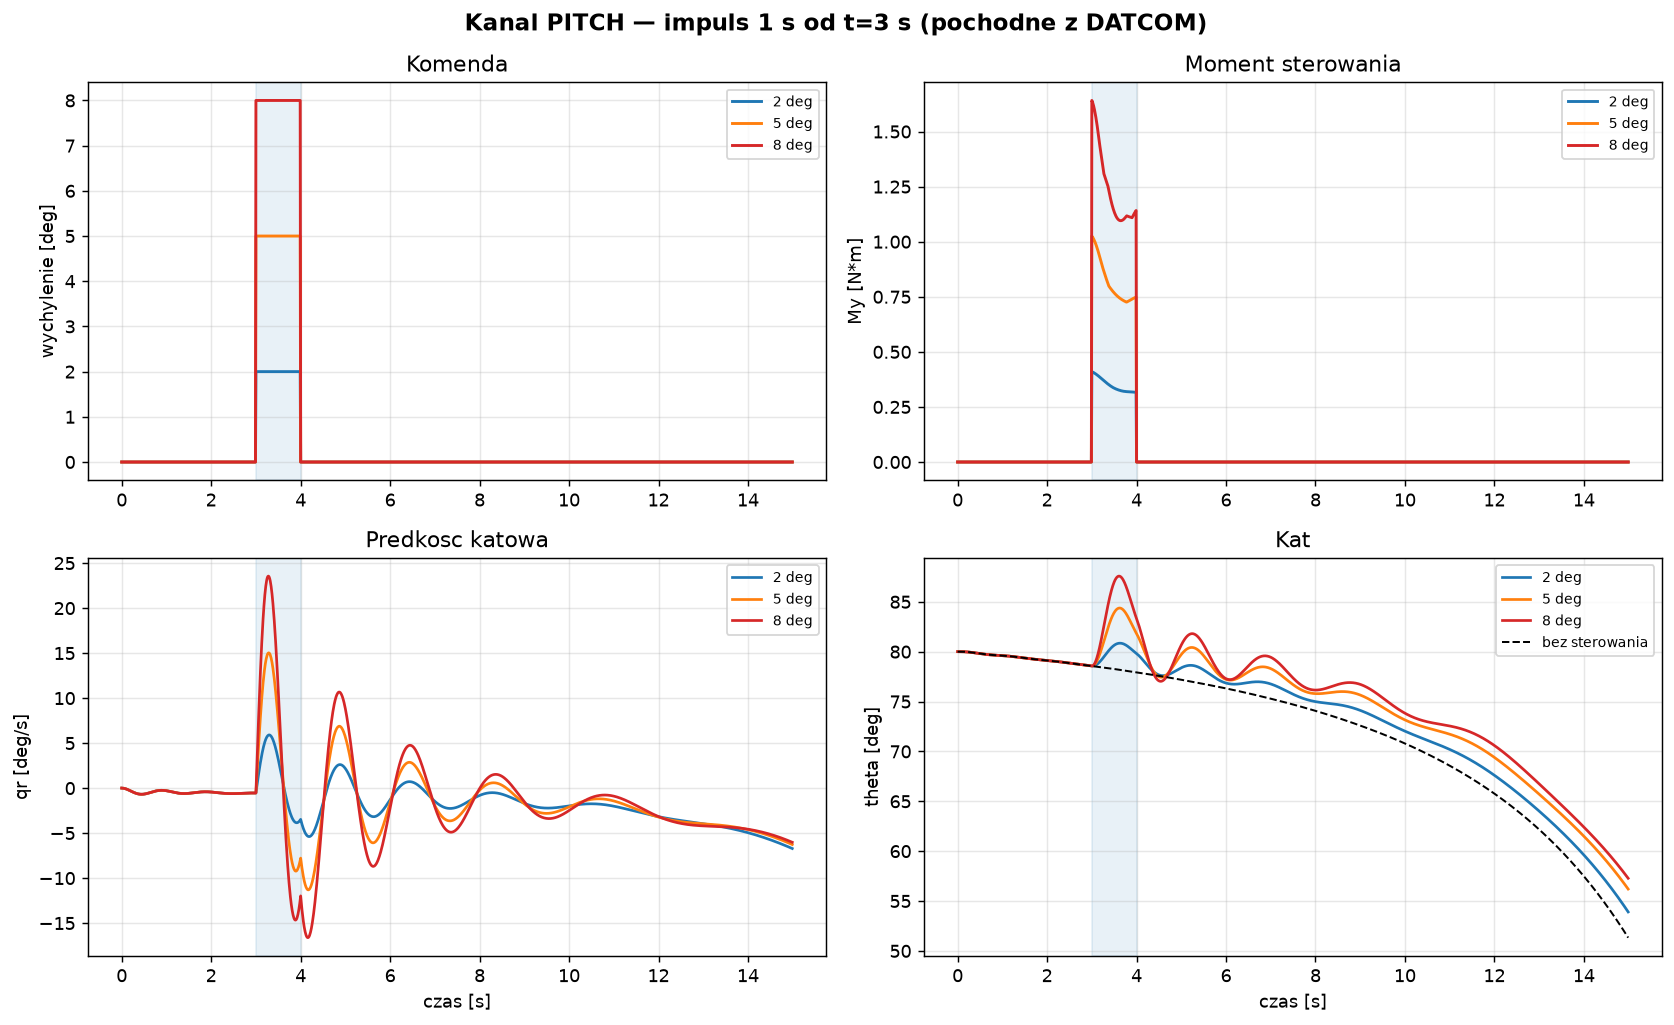
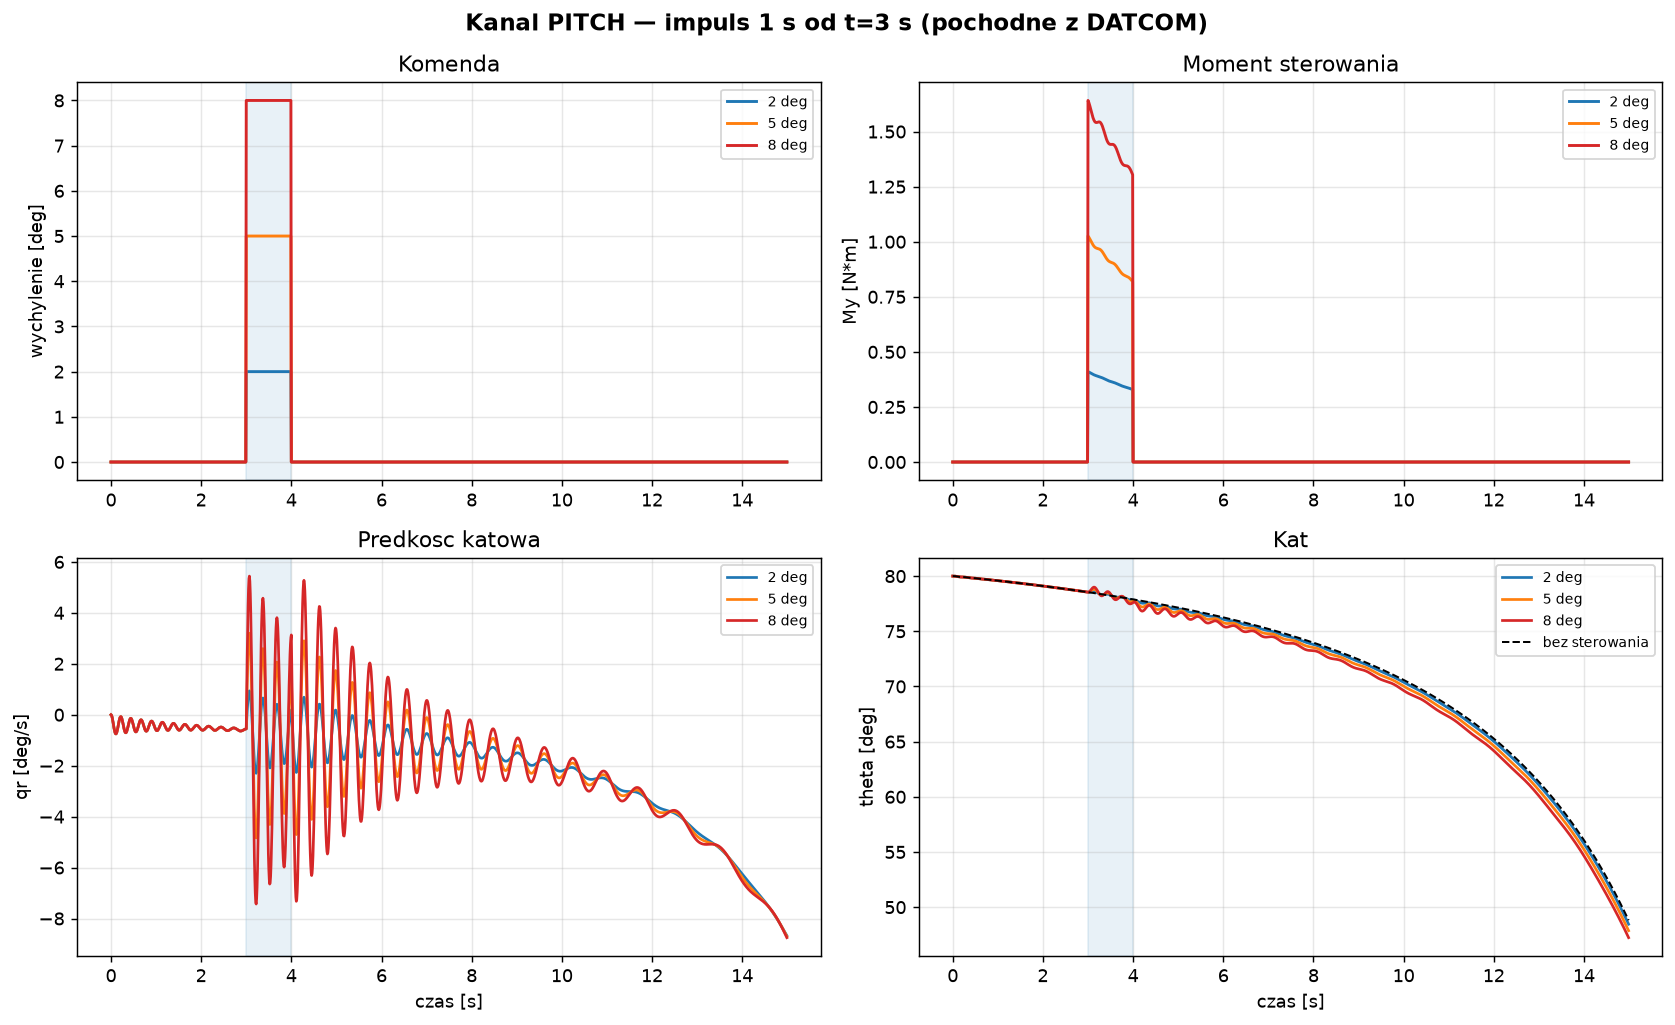
control: stabilize channel test after LREF fix
- ControlDerivTable.interp() clips alpha/Mach to table bounds instead of
  extrapolating; extrapolation fed a divergence loop in the yaw channel
- demo_model prefers real DATCOM aero (same LREF normalization as the
  control derivatives) and caches it; fallback table stiffness raised to
  the post-fix Cm_alpha = -54/rad
- plot_control_channels reports angular rate relative to the control-off
  run, so the pitch gravity-turn background no longer masks the response

Claude-Session: https://claude.ai/code/session_01QNsbYokreJmmKpoSq2s61r

diff --git a/FlightSim/control/demo_model.py b/FlightSim/control/demo_model.py
@@ -30,6 +30,45 @@ ALPHA_GRID = np.deg2rad(np.array([-20., -10., 0., 10., 20.]))
 MACH_GRID = np.array([0.1, 0.5, 1.0, 2.0, 3.0])
 
 
+# Sztywnosc statyczna realnej rakiety 70mm po poprawce LREF (patrz
+# check_moment_reference.py). Uzywana tylko w awaryjnej tablicy zastepczej,
+# zeby NIE byla o rzad wielkosci mieksza niz airframe, do ktorego liczymy
+# pochodne sterowania.
+CM_ALPHA_REAL = -54.0      # [1/rad]
+
+
+_REAL_AERO_CACHE: list = []      # [] = jeszcze nie probowano, [x] = wynik
+
+
+def real_aero_or_none():
+    """
+    Prawdziwa aero 70mm z DATCOM, jesli jest dostepna i aktualna.
+
+    Dlaczego to wazne: pochodne sterowania pochodza z DATCOM, wiec sztywnosc
+    statyczna MUSI pochodzic z tego samego zrodla i tej samej normalizacji.
+    Recznie wpisana tablica Cm nie skaluje sie razem z poprawka LREF — po
+    zmianie LREF sterowanie uroslo ~18x, a zastepcza sztywnosc nie, przez co
+    canardy "przewracaly" model (kanal yaw wpadal w tumbling).
+
+    Wynik jest keszowany: build_demo_model wolamy raz na przebieg, a testy
+    macierzowe robia kilkanascie przebiegow — bez cache kazdy z nich probowal
+    (i logowal) pelne uruchomienie DATCOM.
+    """
+    if _REAL_AERO_CACHE:
+        return _REAL_AERO_CACHE[0]
+    try:
+        from aero import get_aero_model
+        out = get_aero_model("rocket_70mm_baseline", method="missile_datcom",
+                             force_rerun=False)
+    except Exception as exc:
+        print(f"[demo] Brak aktualnej aero DATCOM ({type(exc).__name__}) — "
+              f"uzywam tablicy zastepczej o realistycznej sztywnosci "
+              f"Cm_alpha={CM_ALPHA_REAL:+.0f}/rad.")
+        out = None
+    _REAL_AERO_CACHE.append(out)
+    return out
+
+
 def demo_aero(with_roll_damping: bool = True) -> TableAero:
     """
     Uproszczona, ale statycznie stabilna aerodynamika.
@@ -40,15 +79,25 @@ def demo_aero(with_roll_damping: bool = True) -> TableAero:
     sterowania, a jest po prostu brakiem tlumienia w modelu demo.
     Prawdziwa rakieta ma Clp z DATCOM ($RLLO) albo z przyblizenia analitycznego.
     """
+    real = real_aero_or_none()
+    if real is not None:
+        if with_roll_damping and getattr(real, "Clp_table", None) is None:
+            real.Clp_table = -2.0 * np.ones_like(real.CN_table)
+        return real
+
+    # Tablica zastepcza — Cm dobrane tak, by Cm_alpha odpowiadalo realnej
+    # rakiecie, a nie bylo 16x miekksze (patrz komentarz przy CM_ALPHA_REAL).
     o = np.ones((len(ALPHA_GRID), len(MACH_GRID)))
+    cm_col = CM_ALPHA_REAL * ALPHA_GRID            # Cm = Cm_alpha * alpha
     return TableAero(
         alpha_table=ALPHA_GRID,
         mach_table=MACH_GRID,
         CA_table=0.45 * o,
         CN_table=np.array([[-4.] * 5, [-2.] * 5, [0.] * 5, [2.] * 5, [4.] * 5]),
-        Cm_table=np.array([[1.2] * 5, [0.6] * 5, [0.] * 5, [-0.6] * 5, [-1.2] * 5]),
+        Cm_table=np.repeat(cm_col[:, None], len(MACH_GRID), axis=1),
         Clp_table=(-2.0 * o) if with_roll_damping else None,
         xcg_ref=0.71,
+        lref_ref=0.070,
     )
 
 

diff --git a/FlightSim/plot_control_channels.py b/FlightSim/plot_control_channels.py
@@ -138,6 +138,13 @@ def main():
             rate = np.degrees(getattr(res, rate_at))
             ang = unwrap_deg(getattr(res, ang_at))
             ang_off = unwrap_deg(getattr(r_off, ang_at))
+            # Predkosc katowa MUSI byc liczona jako roznica wzgledem przebiegu
+            # bez sterowania. W kanale pitch tlo (zakret grawitacyjny) to ~9 deg/s
+            # i przy malych wychyleniach calkowicie zaslania odpowiedz na komende,
+            # przez co pitch wygladal na 4x mniej skuteczny niz yaw, gdzie tlo
+            # jest zerowe. To byl artefakt metryki, nie asymetria modelu.
+            d_rate = rate - np.interp(res.t, r_off.t,
+                                      np.degrees(getattr(r_off, rate_at)))
 
             ax[0, 0].plot(res.t, np.where((res.t >= T_STEP) &
                                           (res.t < T_STEP + T_DUR), amp, 0.0),
@@ -146,7 +153,7 @@ def main():
             ax[1, 0].plot(res.t, rate, color=col, lw=1.5, label=f"{amp:.0f} deg")
             ax[1, 1].plot(res.t, ang, color=col, lw=1.5, label=f"{amp:.0f} deg")
 
-            rows.append((amp, float(np.max(np.abs(rate))),
+            rows.append((amp, float(np.max(np.abs(d_rate))),
                          float(ang[-1] - np.interp(res.t[-1], r_off.t, ang_off)),
                          float(np.max(np.abs(mom))), res.status))
 
@@ -169,7 +176,7 @@ def main():
 
         summary[lbl] = rows
         print(f"\n{lbl}:")
-        print(f"  {'ampl':>5} {'max|rate|':>11} {'d_kat(koniec)':>14} "
+        print(f"  {'ampl':>5} {'max|d_rate|':>11} {'d_kat(koniec)':>14} "
               f"{'max|M|':>9}  status")
         for amp, mr, da, mm, st in rows:
             print(f"  {amp:>5.0f} {mr:>9.1f}d/s {da:>12.2f}deg {mm:>8.3f}Nm  {st}")

diff --git a/FlightSim/control/derivatives.py b/FlightSim/control/derivatives.py
@@ -69,6 +69,12 @@ class ControlDerivTable:
             name: RegularGridInterpolator(
                 grid, np.asarray(getattr(self, name), float),
                 method="linear", bounds_error=False, fill_value=None)
+            # fill_value=None => ekstrapolacja liniowa. Sama w sobie jest OK
+            # blisko brzegu, ale przy rozbieganiu sie stanu (beta rzedu
+            # dziesiatek stopni) dawala rosnaca w nieskonczonosc skutecznosc
+            # sterowania i napedzala rozbieganie. Dlatego interp() PRZYCINA
+            # argumenty do zakresu tablicy — poza zakresem trzymamy wartosc
+            # brzegowa zamiast zmyslac coraz wiekszą.
             for name in ("Cm_delta", "Cn_delta", "Cl_delta",
                          "CN_delta", "CY_delta")
         }
@@ -86,7 +92,9 @@ class ControlDerivTable:
         """Wszystkie pochodne w jednym punkcie (alpha [rad], Mach)."""
         if self._interp is None:
             self._build()
-        pt = np.array([[float(alpha_rad), float(mach)]])
+        a = float(np.clip(alpha_rad, self.alpha_rad[0], self.alpha_rad[-1]))
+        m = float(np.clip(mach, self.mach[0], self.mach[-1]))
+        pt = np.array([[a, m]])
         return {k: float(v(pt)[0]) for k, v in self._interp.items()}
 
 
